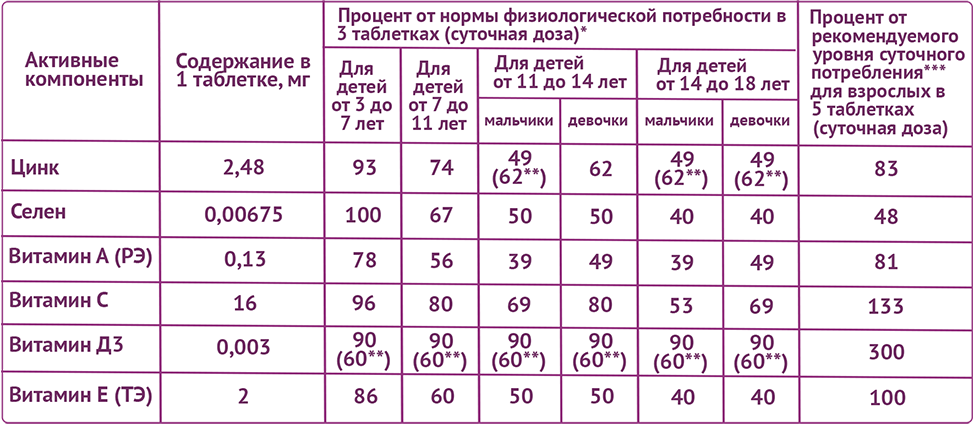
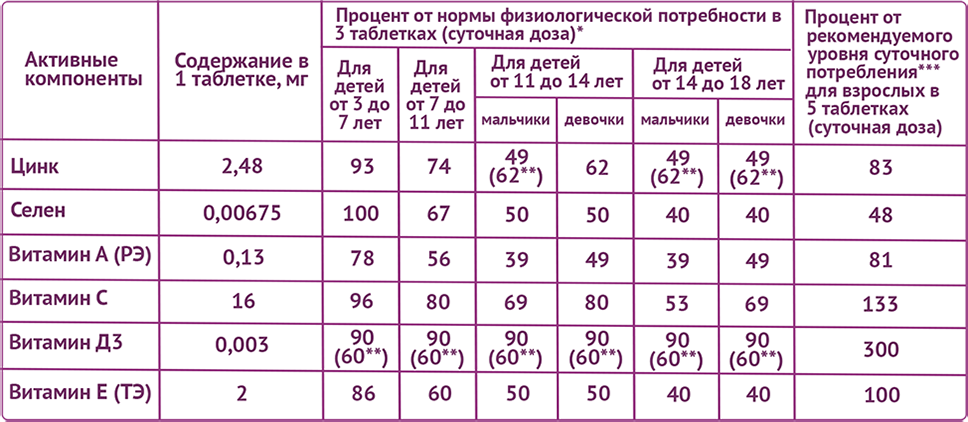
update images, add lazy load, update seo

diff --git a/src/components/WhenBuy/WhenBuy.js b/src/components/WhenBuy/WhenBuy.js
@@ -7,12 +7,8 @@ import market103 from "../../helpers/assets/images/marketButtons/103by.webp"
 import wildberries from "../../helpers/assets/images/marketButtons/widlberries.webp"
 import ozon from "../../helpers/assets/images/marketButtons/ozon.webp"
 
-
-
 export const WhenBuy = () => {
 
-    
-    
     return(
         <div className="WhenBuy">
             <div id="whenbuy" className="container">
@@ -25,7 +21,7 @@ export const WhenBuy = () => {
 
                         <div className="WhenBuy-Text">
                             <div className="WhenBuy-Text-Content">
-                                <h4 className="Buy-Text-Title">ИММУНО-КОМПЛЕКС 3+ с бузиной, витаминами, минералами и пребиотиком</h4>
+                                <h3 className="Buy-Text-Title">ИММУНО-КОМПЛЕКС 3+ с бузиной, витаминами, минералами и пребиотиком</h3>
                                 <div className="Buy-Text-Subtitle">можно купить на любой популярной
                                 площадке по <span className="Buy-Subtile-Additional">выгодной цене</span> 
                                 </div>
@@ -43,14 +39,14 @@ export const WhenBuy = () => {
                             <MarketButton
                             text="103.by"
                             src={market103}
-                            alt="103.by"
+                            alt="103.by Информационный ресурс"
                             href="https://apteka.103.by/immuno-kompleks-3-s-buzinoy-vitaminami-i-prebiotikom/62802-tabletki-n60/amateg/minsk/?sort=price:asc"
                             />
 
                             <MarketButton
                             text="wildberries.ru"
                             src={wildberries}
-                            alt="wildberiies"
+                            alt="Маркетплейс wildberries"
                             spanType="Buy-Market-Text standart"
                             href="#"
                             />
@@ -58,7 +54,7 @@ export const WhenBuy = () => {
                             <MarketButton
                             text="ozon"
                             src={ozon}
-                            alt="ozon"
+                            alt="Маркетплейс Ozon"
                             spanType="Buy-Market-Text ozon"
                             href="#"
                             />

diff --git a/src/components/Biology/Biology.js b/src/components/Biology/Biology.js
@@ -1,6 +1,9 @@
 import "./Biology.scss";
 import table from "../../helpers/assets/images/Biology/table.webp"
+import tablePlaceHolder from "../../helpers/assets/images/Biology/tablePlaceHolder.webp"
 import { BiologyDrop } from "./Biology-drop";
+import { LazyLoadImage } from 'react-lazy-load-image-component';
+import 'react-lazy-load-image-component/src/effects/blur.css';
 
 
 
@@ -10,7 +13,14 @@ export const Biology = () => {
             <div className="Biology">
                 <div className="container gray-back">
                     <div className="Biology-inner">
-                    <img loading="lazy" width="964px" height="auto" alt="table" src={table} className="B-Table"></img>
+                    <LazyLoadImage
+                    width="100%" 
+                    height="100%"
+                    src={table}
+                    wrapperClassName="B-Table"
+                    PlaceholderSrc={tablePlaceHolder}
+                    effect="blur"
+                    />
                     <BiologyDrop
                     buttonText="Подробнее"
                     droptext="* – норма физиологической потребности суточного потребления для детей указана в Санитарных нормах и правилах «Требования к питанию населения: нормы физиологических потребностей в энергии и пищевых                веществах для различных групп населения Республики Беларусь», утверждённых постановлением МЗ РБ 20.11.2012 №180, в постановлении МЗ РБ 16.11.2015 №111 «О внесении изменений в постановление МЗ РБ от 20.11.2012 №180»** – MP 2.3.1.0253-21 «Нормы физиологических потребностей в энергии и пищевых веществах для различ-ных групп населения Российской Федерации»**** – рекомендуемый уровень суточного потребления для взрослых указан в Приложении 2 к ТР ТС 022/2011.РЭ ТЭ – ретиноловый эквивалент/токофероловый эквивалент"

diff --git a/src/components/Intro/Intro.scss b/src/components/Intro/Intro.scss
@@ -57,40 +57,7 @@
     margin: 12px 0px 0px 80px;
 }
 
-
-@media (max-width: 899px) {
-    .Intro-wrapper {
-        align-items: center;
-        flex-wrap: wrap;
-    }
-
-    .Intro-content {
-        margin: 12px 0px 12px 0px;
-        align-items: center;
-    }
-
-}
-
-
-@media (max-width: 471px) {
-    .Intro-title {
-        font-size: 32px;
-        margin-bottom: 22px;
-    }    
-  }
-
-@media (max-width: 435px) {
-    .Intro-title {
-        font-size: 27px;
-    }
-
-    .Intro-wrapper {
-       align-items: center;
-    }
-
-  }
-
-  @media (min-width: 1555px) { 
+@media (min-width: 1555px) { 
     .Intro {
         background-position: -13px 10px;
     }
@@ -143,6 +110,42 @@
         background-position: 12px -2px;
     }
 }
+
+
+@media (max-width: 980px) {
+    .Intro-wrapper {
+        align-items: center;
+        flex-wrap: wrap;
+        flex-direction: column;
+    }
+
+    .Intro-content {
+        margin: 12px 0px 12px 0px;
+        align-items: center;
+    }
+
+}
+
+
+@media (max-width: 471px) {
+    .Intro-title {
+        font-size: 32px;
+        margin-bottom: 22px;
+    }    
+  }
+
+@media (max-width: 435px) {
+    .Intro-title {
+        font-size: 27px;
+    }
+
+    .Intro-wrapper {
+       align-items: center;
+    }
+
+  }
+
+ 
 
   @media (max-width: 423px) {
    .Intro {

diff --git a/public/index.html b/public/index.html
@@ -5,9 +5,9 @@
     <link rel="icon" href="%PUBLIC_URL%/favicon.ico" />
     <meta name="viewport" content="width=device-width, initial-scale=1" />
     <meta 
-      itemprop="description"
-      name="ИММУНО-КОМПЛЕКС 3+ С БУЗИНОЙ, ВИТАМИНАМИ, МИНЕРАЛАМИ И ПРЕБИОТИКОМ"
-      content="Биологически активная добавка к пище с бузиной, витаминами и минералами и пребиотиком"
+    name="ИММУНО-КОМПЛЕКС 3+ С БУЗИНОЙ, ВИТАМИНАМИ, МИНЕРАЛАМИ И ПРЕБИОТИКОМ" 
+    content="Биологически активная добавка к пище с бузиной, витаминами и минералами и пребиотиком" 
+    itemprop="description"
     />
     <link rel="apple-touch-icon" href="%PUBLIC_URL%/logo192.png" />
     <link rel="manifest" href="%PUBLIC_URL%/manifest.json" />

diff --git a/src/components/Intro/Pack/Pack.js b/src/components/Intro/Pack/Pack.js
@@ -1,11 +1,22 @@
 import './Pack.scss';
 import BuzImg from "../../../helpers/assets/images/intro/BuzzicolPack.webp"
+import BuzImgPlaceholder from "../../../helpers/assets/images/intro/BuzzicolPackPreload.webp"
+import { LazyLoadImage } from 'react-lazy-load-image-component';
+import 'react-lazy-load-image-component/src/effects/blur.css';
 
 
 export const Pack = () => {
     return(
         <div className='Buzzicol-Inner'>
-            <img width="380" height="auto" alt='immunnoPack' src={BuzImg} className='Buzzicol-Img'></img>
+            <LazyLoadImage 
+            width="99%"
+            height="auto" 
+            alt='immunnoPack'
+            wrapperClassName='Buzzicol-Img'
+            PlaceholderSrc={BuzImgPlaceholder}
+            src={BuzImg}
+            effect="blur"
+            />
          </div>
     )
 }

diff --git a/src/components/Footer/Contacts/Contacts.js b/src/components/Footer/Contacts/Contacts.js
@@ -21,13 +21,13 @@ export const Contacts = () => {
         }}
       />
 
-      <h5 className="Contacts-Title">
+      <h4 className="Contacts-Title">
        {OrganizationStructuredData.name} {OrganizationStructuredData.address}
         <a className="Contacts-phone" href="tel:+375177755003"> {OrganizationStructuredData.telephone}</a>
-      </h5>
-      <h6 className="Contacts-Subtext">
+      </h4>
+      <h5 className="Contacts-Subtext">
       Продукт Не является лекарственным средством
-      </h6>
+      </h5>
       
     </div>
   );

diff --git a/src/helpers/components/Advantages/Advantages.scss b/src/helpers/components/Advantages/Advantages.scss
@@ -33,7 +33,7 @@
   display: flex;
   align-items: center;
   position: relative;
-  margin-left: 10px;
+  margin: 3px 0px 3px 10px;
 }
 
 .Advantages-Button.purple {
@@ -75,13 +75,19 @@
 
 @media (max-width: 426px) {
   .Advantages-Button {
-    font-size: 23px;
+    font-size: 25px;
+    margin: 5px 0px 5px 5px;
   }
 
   .Advantages-Button.active {
-    font-size: 23px;
+    font-size: 25px;
+    margin: 5px 0px 5px 5px;
   }
-  
+
+  .Dropdown-Menu {
+    margin-left: 0px;
+  }
+
 }
 
 @media (min-width: 900px) {

diff --git a/src/components/DoctorQuestion/DoctorQuestion.scss b/src/components/DoctorQuestion/DoctorQuestion.scss
@@ -174,6 +174,8 @@
  }
 }
 
+
+
 @media (min-width: 900px) {
   .Doctor-Question-Button:hover {
     color: $white;
@@ -214,3 +216,11 @@
       background-position: -5px 5px;
   }
 }
+
+
+@media (max-width: 312px) {
+ 
+  .Doctor-Question-Content {
+   margin-top: 50px;
+  }
+ }

diff --git a/src/components/Intro/Pack/Pack.scss b/src/components/Intro/Pack/Pack.scss
@@ -1,13 +1,13 @@
 
 
 .Buzzicol-Img {
-    display: block;
+    display: flex;
     max-width: 380px;
 }
 
 @media (max-width: 899px) {
     .Buzzicol-Img {
-        display: block;
+        display: flex;
         max-width: 280px;
     }
 }
